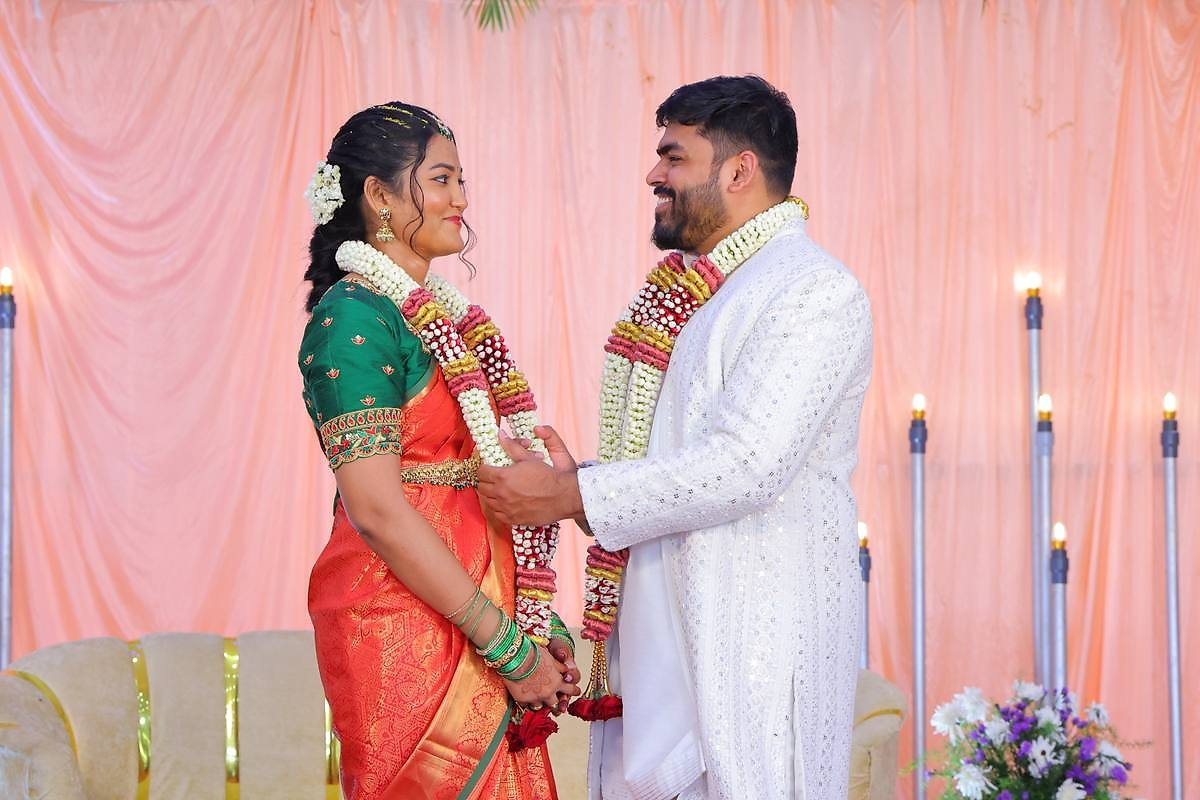
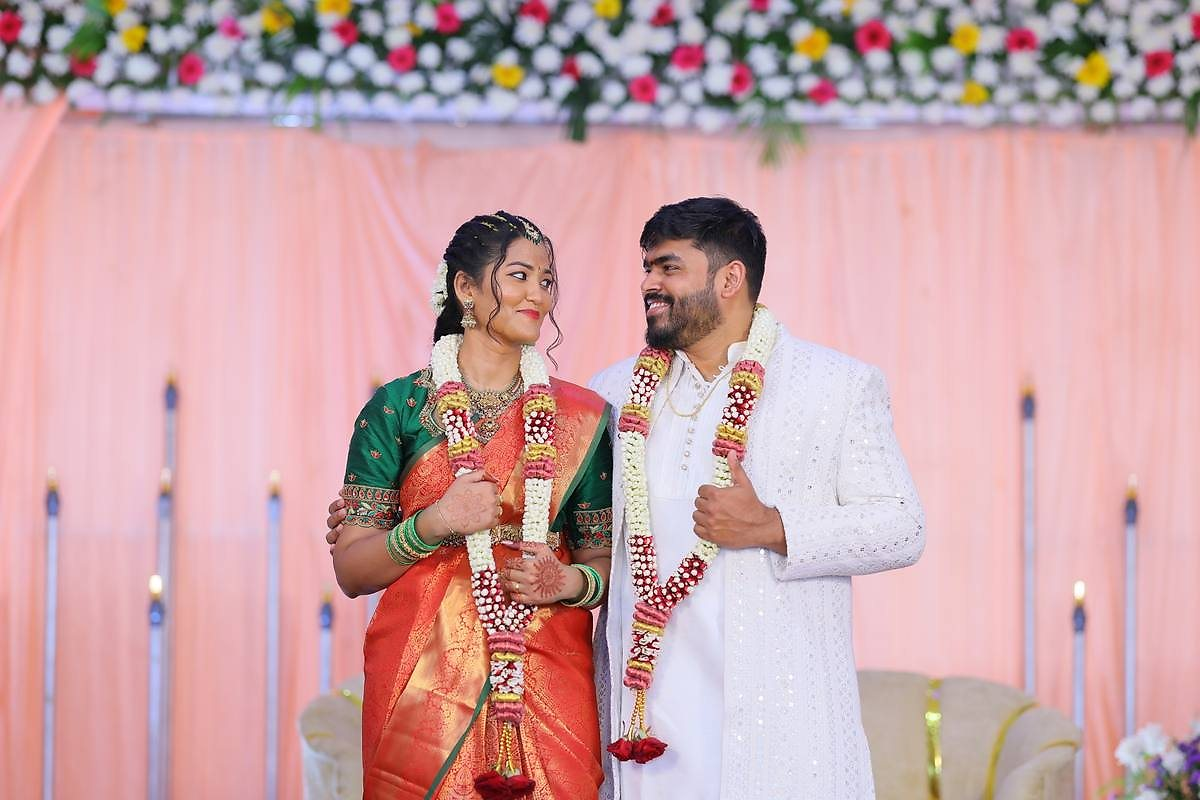
updates

diff --git a/index.html b/index.html
@@ -30,7 +30,7 @@ button{border:none;background:none;}
 .audio-toggle:hover{transform:translateY(-2px);background:#fff;}
 .audio-toggle.active{background:var(--maroon);color:#fff;}
 .audio-toggle span{display:block;line-height:1;}
-.hero{min-height:100vh;padding:72px 24px;display:flex;align-items:center;justify-content:center;text-align:center;position:relative;background:linear-gradient(180deg,rgba(19,10,6,0.45),rgba(19,10,6,0.64)),url('assets/hero.jpg') center/cover no-repeat;color:#f7ebdb;overflow:hidden;}
+.hero{min-height:100vh;padding:72px 24px;display:flex;align-items:center;justify-content:center;text-align:center;position:relative;background:linear-gradient(180deg,rgba(19,10,6,0.45),rgba(19,10,6,0.64)),url('assets/hero.jpg') 50% center/cover no-repeat;color:#f7ebdb;overflow:hidden;}
 .hero::before{content:'';position:absolute;inset:0;background:radial-gradient(circle at 22% 20%,rgba(255,255,255,.18),transparent 22%),radial-gradient(circle at 80% 16%,rgba(200,161,102,.12),transparent 18%);pointer-events:none;}
 .hero-content{position:relative;z-index:1;opacity:0;animation:fadeInUp 1s ease forwards;margin-top:-12px;}
 .hero .eyebrow{font-size:.9rem;letter-spacing:.28em;text-transform:uppercase;color:rgba(255,235,216,.9);margin-bottom:22px;}
